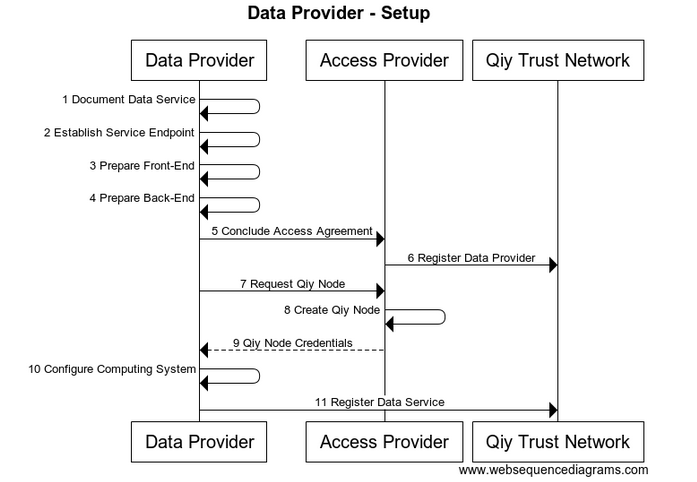
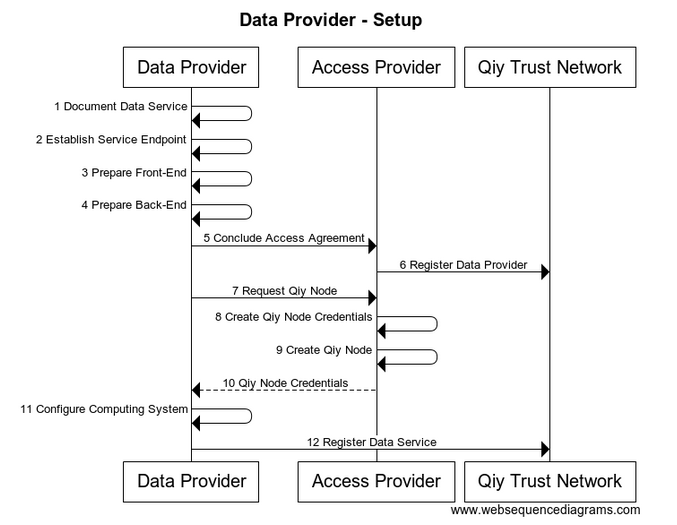
Updated Data Provider setup in Functional Specification.
As part of #2.

Changed region(s): [[0.031, 0.0, 0.9616, 0.9959]]

diff --git a/Functional Specification.md b/Functional Specification.md
@@ -88,7 +88,8 @@ The flow is as follows:
 1. The [Data Provider](Definitions.md#data-provider) selects an [Access Provider](Definitions.md#access-provider) and concludes an access agreement.
 1. The [Access Provider](Definitions.md#access-provider) registers the [Data Provider](Definitions.md#data-provider) in the [Service Library](Definitions.md#service-library) of the [Qiy Trust Network](Definitions.md#qiy-trust-network).
 1. The [Data Provider](Definitions.md#data-provider) asks the [Access Provider](Definitions.md#access-provider) for a [Qiy Node](Definitions.md#qiy-node).
-1. The [Access Provider](Definitions.md#access-provider) creates a [Qiy Node](Definitions.md#qiy-node) for the [Data Provider](Definitions.md#data-provider)
+1. The [Access Provider](Definitions.md#access-provider) creates [Qiy Node Credentials](Definitions.md#qiy-node-credential).
+1. The [Access Provider](Definitions.md#access-provider) creates a [Qiy Node](Definitions.md#qiy-node).
 1. The [Access Provider](Definitions.md#access-provider) returns the [Qiy Node Credentials](Definitions.md#qiy-node-credential).
 1. The [Data Provider](Definitions.md#data-provider) configures its computing system with the [Qiy Node Credentials](Definitions.md#qiy-node-credential) and gains physical access to the [Qiy Trust Network](Definitions.md#qiy-trust-network).
 1. The [Data Provider](Definitions.md#data-provider) registers its [Data Service](Definitions.md#data-service) by publishing the [Data Service Description](Definitions.md#data-service-description) in the [Service Library](Definitions.md#service-library) of the [Qiy Trust Network](Definitions.md#qiy-trust-network).
@@ -336,10 +337,11 @@ DP->DP: 4 Prepare Back-End
 DP->AP  : 5 Conclude Access Agreement
 AP-> QTN  : 6 Register Data Provider
 DP->AP  : 7 Request Qiy Node
-AP->AP : 8 Create Qiy Node
-AP-->DP: 9 Qiy Node Credentials
-DP->DP: 10 Configure Computing System
-DP-> QTN  : 11 Register Data Service
+AP->AP: 8 Create Qiy Node Credentials
+AP->AP : 9 Create Qiy Node
+AP-->DP: 10 Qiy Node Credentials
+DP->DP: 11 Configure Computing System
+DP-> QTN  : 12 Register Data Service
 ```
 
 
